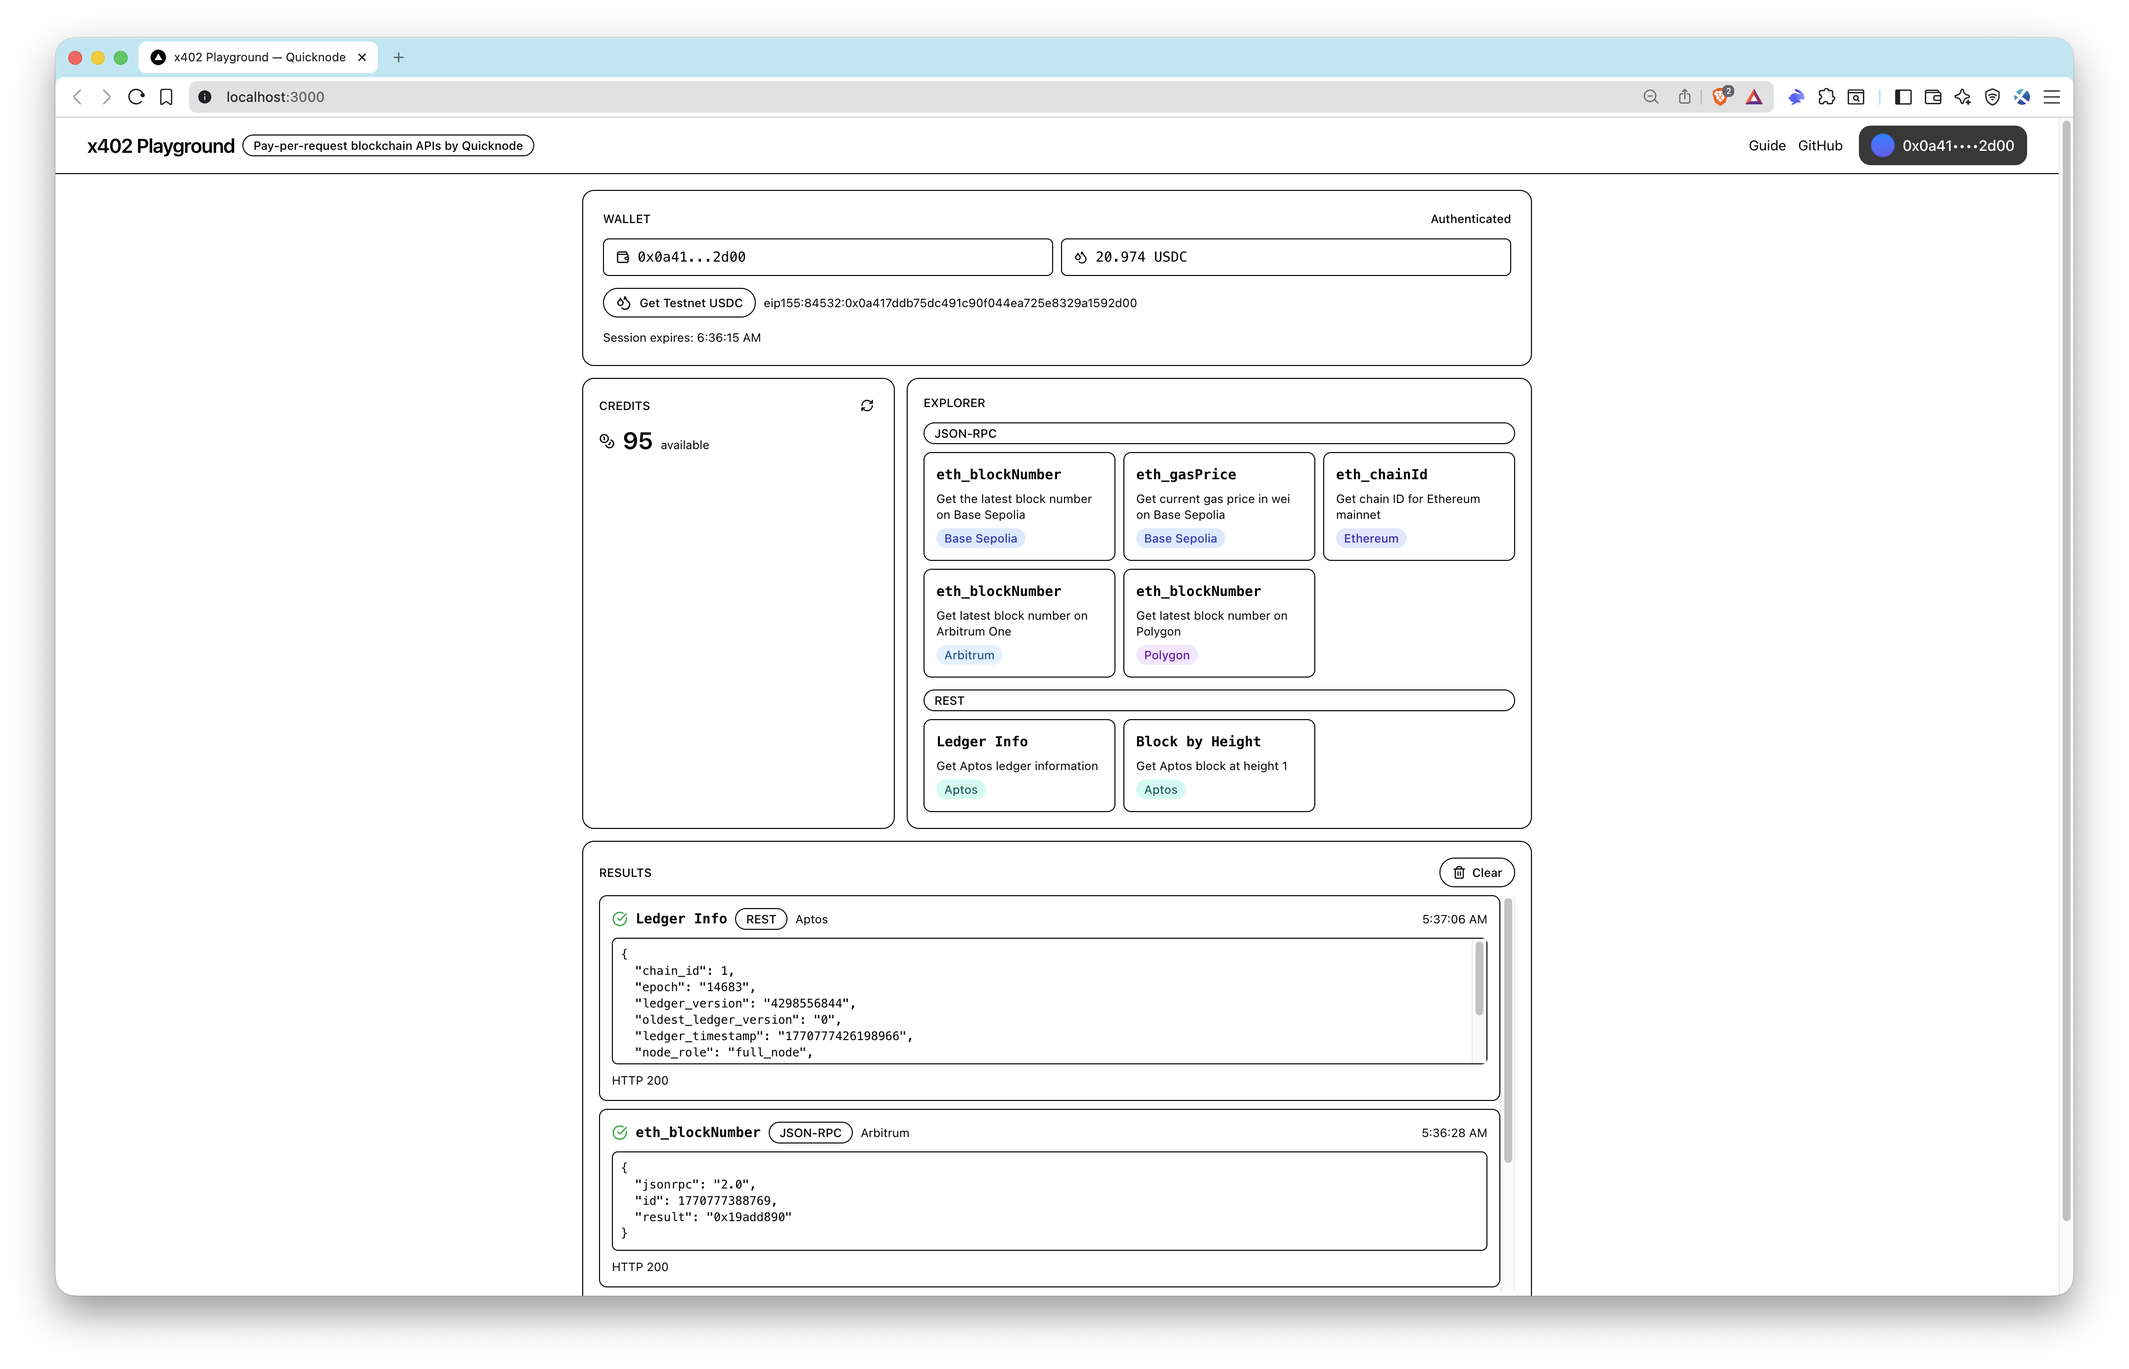
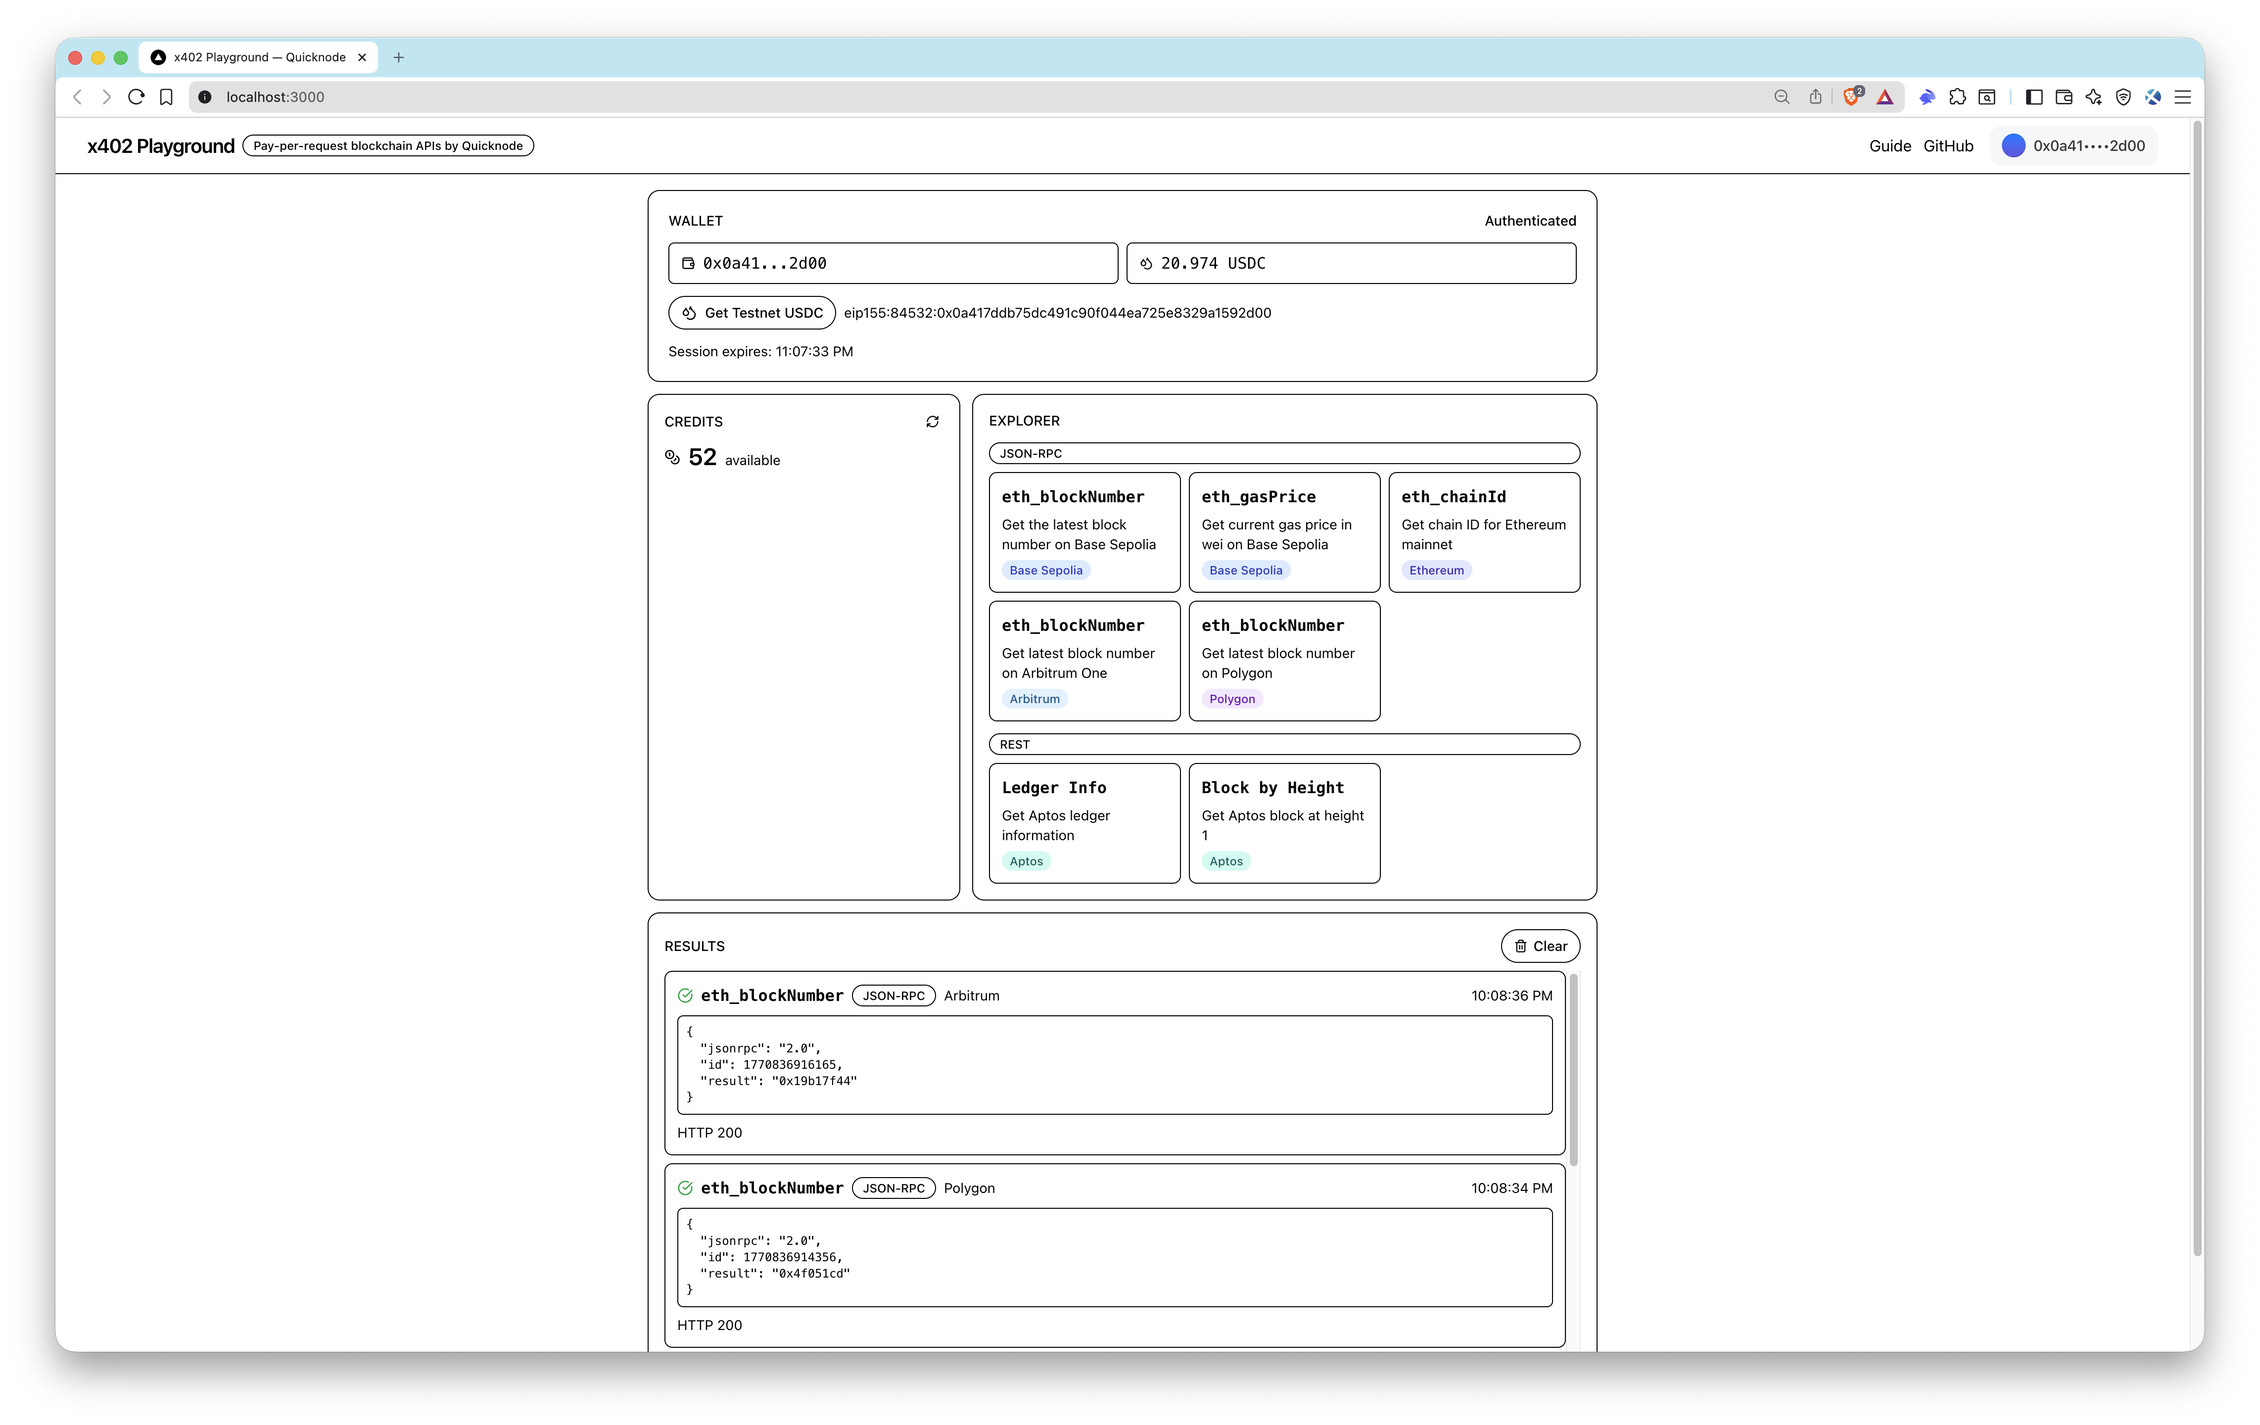
implement feedback

diff --git a/sample-dapps/x402-quicknode/src/components/wallet-panel.tsx b/sample-dapps/x402-quicknode/src/components/wallet-panel.tsx
@@ -79,7 +79,7 @@ export function WalletPanel({
       <Card.Content className="p-4 gap-3 lg:p-5">
         <div className="flex flex-col gap-3">
           <div className="flex items-center justify-between">
-            <span className="text-xs font-medium text-(--foreground-light) uppercase">
+            <span className="text-sm font-medium text-(--foreground-light) uppercase">
               Wallet
             </span>
             {isAuthenticated ? (
@@ -92,13 +92,13 @@ export function WalletPanel({
           <div className="grid gap-2 sm:grid-cols-2">
             <div className="flex items-center gap-2 rounded-md border border-(--border) px-3 py-2">
               <Wallet className="h-3.5 w-3.5 shrink-0 text-(--foreground-light)" />
-              <span className="font-mono text-sm text-(--foreground)">
+              <span className="font-mono text-base text-(--foreground)">
                 {address ? truncateAddress(address) : "—"}
               </span>
             </div>
             <div className="flex items-center gap-2 rounded-md border border-(--border) px-3 py-2">
               <Droplets className="h-3.5 w-3.5 shrink-0 text-(--foreground-light)" />
-              <span className="font-mono text-sm text-(--foreground)">
+              <span className="font-mono text-base text-(--foreground)">
                 {formattedBalance} USDC
               </span>
             </div>
@@ -108,7 +108,7 @@ export function WalletPanel({
             <div className="flex flex-col gap-3">
               <div className="flex items-start gap-2 rounded-md bg-(--border) px-3 py-2">
                 <Info className="mt-0.5 h-3.5 w-3.5 shrink-0 text-(--foreground-medium)" />
-                <p className="text-xs text-(--foreground-medium) leading-relaxed">
+                <p className="text-sm text-(--foreground-medium) leading-relaxed">
                   Signing authenticates you via{" "}
                   <a
                     href="https://login.xyz"
@@ -147,7 +147,7 @@ export function WalletPanel({
                 </span>
               </Button>
               {accountId && (
-                <span className="text-xs text-(--foreground-light)">
+                <span className="text-sm text-(--foreground-light)">
                   {accountId}
                 </span>
               )}
@@ -166,7 +166,7 @@ export function WalletPanel({
             <p className="text-sm text-red-600">
               {dripError}
               {dripError.includes("already") && (
-                <span className="block mt-1 text-xs text-(--foreground-light)">
+                <span className="block mt-1 text-sm text-(--foreground-light)">
                   Try{" "}
                   <a
                     href="https://faucet.circle.com/"
@@ -183,7 +183,7 @@ export function WalletPanel({
           )}
 
           {dripTxHash && (
-            <p className="text-xs text-(--foreground-light)">
+            <p className="text-sm text-(--foreground-light)">
               Faucet tx:{" "}
               <a
                 href={`https://sepolia.basescan.org/tx/${dripTxHash}`}
@@ -197,7 +197,7 @@ export function WalletPanel({
           )}
 
           {isAuthenticated && expiresAt && (
-            <p className="text-xs text-(--foreground-light)">
+            <p className="text-sm text-(--foreground-light)">
               Session expires: {expiresAt.toLocaleTimeString()}
             </p>
           )}

diff --git a/sample-dapps/x402-quicknode/src/components/credits-panel.tsx b/sample-dapps/x402-quicknode/src/components/credits-panel.tsx
@@ -19,31 +19,33 @@ export function CreditsPanel({
   onRefresh,
 }: CreditsPanelProps) {
   const prevCredits = useRef(credits);
-  const [flash, setFlash] = useState(false);
+  const [delta, setDelta] = useState<number | null>(null);
+  const flashTimeout = useRef<ReturnType<typeof setTimeout> | null>(null);
 
   useEffect(() => {
-    if (prevCredits.current !== credits && prevCredits.current !== 0) {
-      setFlash(true);
-      const timeout = setTimeout(() => setFlash(false), 1500);
-      return () => clearTimeout(timeout);
-    }
+    const diff = credits - prevCredits.current;
     prevCredits.current = credits;
+
+    if (diff === 0) return;
+
+    setDelta(diff);
+
+    if (flashTimeout.current) clearTimeout(flashTimeout.current);
+    flashTimeout.current = setTimeout(() => setDelta(null), 1500);
+
+    return () => {
+      if (flashTimeout.current) clearTimeout(flashTimeout.current);
+    };
   }, [credits]);
 
-  useEffect(() => {
-    if (!flash) {
-      prevCredits.current = credits;
-    }
-  }, [flash, credits]);
-
-  const delta = credits - prevCredits.current;
+  const flash = delta !== null;
 
   return (
     <Card variant="white">
       <Card.Content>
         <div className="flex flex-col gap-2">
           <div className="flex items-center justify-between">
-            <span className="text-xs font-medium text-(--foreground-light) uppercase">
+            <span className="text-sm font-medium text-(--foreground-light) uppercase">
               Credits
             </span>
             <button
@@ -71,10 +73,10 @@ export function CreditsPanel({
             >
               {credits.toLocaleString()}
             </span>
-            {flash && delta !== 0 && (
+            {flash && (
               <span
                 className={cn(
-                  "text-xs font-semibold animate-pulse",
+                  "text-sm font-semibold animate-pulse",
                   delta > 0 ? "text-green-600" : "text-amber-600",
                 )}
               >
@@ -82,13 +84,13 @@ export function CreditsPanel({
               </span>
             )}
             {!flash && (
-              <span className="text-xs text-(--foreground-light)">
+              <span className="text-sm text-(--foreground-light)">
                 available
               </span>
             )}
           </div>
 
-          {error && <p className="text-xs text-red-600">{error}</p>}
+          {error && <p className="text-sm text-red-600">{error}</p>}
         </div>
       </Card.Content>
     </Card>

diff --git a/sample-dapps/x402-quicknode/src/components/explorer-panel.tsx b/sample-dapps/x402-quicknode/src/components/explorer-panel.tsx
@@ -33,7 +33,7 @@ export function ExplorerPanel({
     <Card variant="white">
       <Card.Content>
         <div className="flex flex-col gap-3">
-          <span className="text-xs font-medium text-(--foreground-light) uppercase">
+          <span className="text-sm font-medium text-(--foreground-light) uppercase">
             Explorer
           </span>
 
@@ -86,13 +86,13 @@ function MethodGroup({
               disabled={isExecuting}
               className={cn(
                 "group flex cursor-pointer flex-col gap-1.5 rounded-lg border border-(--border) p-3 text-left transition-colors",
-                "hover:border-(--foreground) hover:bg-(--background)",
+                "hover:border-(--foreground) hover:bg-(--background) focus-visible:border-(--foreground) focus-visible:outline-none",
                 executing && "border-(--accent)",
                 isExecuting && !executing && "opacity-50",
               )}
             >
               <div className="flex items-center justify-between">
-                <span className="font-mono text-sm font-semibold text-(--foreground)">
+                <span className="font-mono text-base font-semibold text-(--foreground)">
                   {method.name}
                 </span>
                 {executing ? (
@@ -101,7 +101,7 @@ function MethodGroup({
                   <Play className="h-3.5 w-3.5 text-(--foreground-light) opacity-0 transition-opacity group-hover:opacity-100" />
                 )}
               </div>
-              <p className="text-xs text-(--foreground-light)">
+              <p className="text-sm text-(--foreground-light)">
                 {method.description}
               </p>
               <span

diff --git a/sample-dapps/x402-quicknode/src/components/result-card.tsx b/sample-dapps/x402-quicknode/src/components/result-card.tsx
@@ -25,14 +25,14 @@ export function ResultCard({ result }: ResultCardProps) {
         ) : (
           <XCircle className="h-4 w-4 shrink-0 text-red-500" />
         )}
-        <span className="font-mono text-sm font-semibold text-(--foreground)">
+        <span className="font-mono text-base font-semibold text-(--foreground)">
           {result.methodName}
         </span>
         <Badge>{result.protocol}</Badge>
-        <span className="text-xs text-(--foreground-light)">
+        <span className="text-sm text-(--foreground-light)">
           {result.networkDisplay}
         </span>
-        <span className="ml-auto text-xs text-(--foreground-light)">
+        <span className="ml-auto text-sm text-(--foreground-light)">
           {time}
         </span>
       </div>
@@ -47,11 +47,11 @@ export function ResultCard({ result }: ResultCardProps) {
       </pre>
 
       {result.error && (
-        <p className="text-xs text-red-600">{result.error}</p>
+        <p className="text-sm text-red-600">{result.error}</p>
       )}
 
       {result.paymentResponse != null && (
-        <details className="text-xs text-(--foreground-light)">
+        <details className="text-sm text-(--foreground-light)">
           <summary className="cursor-pointer hover:text-(--foreground)">
             Payment details
           </summary>
@@ -61,7 +61,7 @@ export function ResultCard({ result }: ResultCardProps) {
         </details>
       )}
 
-      <div className="flex items-center gap-2 text-xs text-(--foreground-light)">
+      <div className="flex items-center gap-2 text-sm text-(--foreground-light)">
         <span>HTTP {result.status}</span>
       </div>
     </div>

diff --git a/sample-dapps/x402-quicknode/src/app/global-error.tsx b/sample-dapps/x402-quicknode/src/app/global-error.tsx
@@ -1,0 +1,51 @@
+"use client";
+
+export default function GlobalError({
+  error,
+  reset,
+}: {
+  error: Error & { digest?: string };
+  reset: () => void;
+}) {
+  return (
+    <html lang="en">
+      <body>
+        <div
+          style={{
+            display: "flex",
+            minHeight: "100vh",
+            flexDirection: "column",
+            alignItems: "center",
+            justifyContent: "center",
+            gap: "1rem",
+            fontFamily: "system-ui, sans-serif",
+            textAlign: "center",
+            padding: "1rem",
+          }}
+        >
+          <h2 style={{ fontSize: "1.25rem", fontWeight: 600 }}>
+            Something went wrong
+          </h2>
+          <p style={{ fontSize: "0.875rem", color: "#6B7280", maxWidth: "28rem" }}>
+            A critical error occurred. Please try refreshing the page.
+          </p>
+          <button
+            onClick={reset}
+            style={{
+              padding: "0.5rem 1rem",
+              fontSize: "0.875rem",
+              fontWeight: 500,
+              color: "#fff",
+              backgroundColor: "#10151B",
+              border: "none",
+              borderRadius: "9999px",
+              cursor: "pointer",
+            }}
+          >
+            Try again
+          </button>
+        </div>
+      </body>
+    </html>
+  );
+}

diff --git a/sample-dapps/x402-quicknode/src/components/results-feed.tsx b/sample-dapps/x402-quicknode/src/components/results-feed.tsx
@@ -17,7 +17,7 @@ export function ResultsFeed({ results, onClear }: ResultsFeedProps) {
       <Card.Content>
         <div className="flex flex-col gap-2">
           <div className="flex items-center justify-between">
-            <span className="text-xs font-medium text-(--foreground-light) uppercase">
+            <span className="text-sm font-medium text-(--foreground-light) uppercase">
               Results
             </span>
             {results.length > 0 && (
@@ -33,7 +33,7 @@ export function ResultsFeed({ results, onClear }: ResultsFeedProps) {
           {results.length === 0 ? (
             <div className="flex flex-col items-center gap-2 py-6 text-(--foreground-light)">
               <Terminal className="h-6 w-6" />
-              <p className="text-xs">Execute a method to see results here</p>
+              <p className="text-sm">Execute a method to see results here</p>
             </div>
           ) : (
             <div className="flex max-h-[400px] flex-col gap-2 overflow-y-auto">

diff --git a/sample-dapps/x402-quicknode/src/app/error.tsx b/sample-dapps/x402-quicknode/src/app/error.tsx
@@ -1,0 +1,28 @@
+"use client";
+
+import { Button } from "@/components/ui/button";
+import { useEffect } from "react";
+
+export default function Error({
+  error,
+  reset,
+}: {
+  error: Error & { digest?: string };
+  reset: () => void;
+}) {
+  useEffect(() => {
+    console.error(error);
+  }, [error]);
+
+  return (
+    <div className="flex min-h-[60vh] flex-col items-center justify-center gap-4 px-4 text-center">
+      <h2 className="text-xl font-semibold text-(--foreground)">
+        Something went wrong
+      </h2>
+      <p className="max-w-md text-sm text-(--foreground-medium)">
+        An unexpected error occurred. You can try again or refresh the page.
+      </p>
+      <Button onClick={reset}>Try again</Button>
+    </div>
+  );
+}

diff --git a/sample-dapps/x402-quicknode/src/components/ui/button.tsx b/sample-dapps/x402-quicknode/src/components/ui/button.tsx
@@ -22,7 +22,7 @@ export function Button({
         variant === "secondary" &&
           "bg-transparent border border-(--border) text-(--foreground) rounded-full hover:bg-(--border)",
         size === "default" && variant === "primary" && "px-4 py-2 text-sm",
-        size === "default" && variant === "secondary" && "px-3 py-1.5 text-xs",
+        size === "default" && variant === "secondary" && "px-3 py-1.5 text-sm",
         size === "lg" && "px-6 py-3 text-base",
         disabled && "pointer-events-none opacity-50",
         className,

diff --git a/sample-dapps/x402-quicknode/src/components/header.tsx b/sample-dapps/x402-quicknode/src/components/header.tsx
@@ -19,7 +19,7 @@ export function Header() {
         <Badge>Pay-per-request blockchain APIs by Quicknode</Badge>
       </div>
       <div className="flex shrink-0 items-center gap-4">
-        <nav className="hidden items-center gap-3 text-sm text-(--foreground-light) md:flex">
+        <nav className="hidden items-center gap-3 text-base text-(--foreground-light) md:flex">
           <a
             href="https://www.quicknode.com/guides/x402/access-quicknode-endpoints-with-x402-payments"
             target="_blank"

diff --git a/sample-dapps/x402-quicknode/src/app/page.tsx b/sample-dapps/x402-quicknode/src/app/page.tsx
@@ -102,7 +102,7 @@ export default function Home() {
         )}
       </main>
 
-      <footer className="border-t border-(--border) bg-(--background) px-4 py-4 text-center text-xs text-(--foreground-light) md:px-8">
+      <footer className="border-t border-(--border) bg-(--background) px-4 py-4 text-center text-sm text-(--foreground-light) md:px-8">
         Built with{" "}
         <a
           href="https://x402.org"

diff --git a/sample-dapps/x402-quicknode/src/components/status-dot.tsx b/sample-dapps/x402-quicknode/src/components/status-dot.tsx
@@ -21,7 +21,7 @@ export function StatusDot({ variant, label, className }: StatusDotProps) {
       />
       <span
         className={cn(
-          "text-xs font-medium",
+          "text-sm font-medium",
           variant === "active" && "text-(--foreground)",
           variant === "inactive" && "text-(--foreground-light)",
           variant === "error" && "text-red-600",

diff --git a/sample-dapps/x402-quicknode/src/app/globals.css b/sample-dapps/x402-quicknode/src/app/globals.css
@@ -11,6 +11,11 @@
   --color-grid: #E5E7EB;
 }
 
+:focus-visible {
+  outline: 2px solid var(--color-foreground);
+  outline-offset: 2px;
+}
+
 .dot-grid {
   background-image: radial-gradient(var(--grid) 1px, transparent 1px);
   background-size: 20px 20px;
